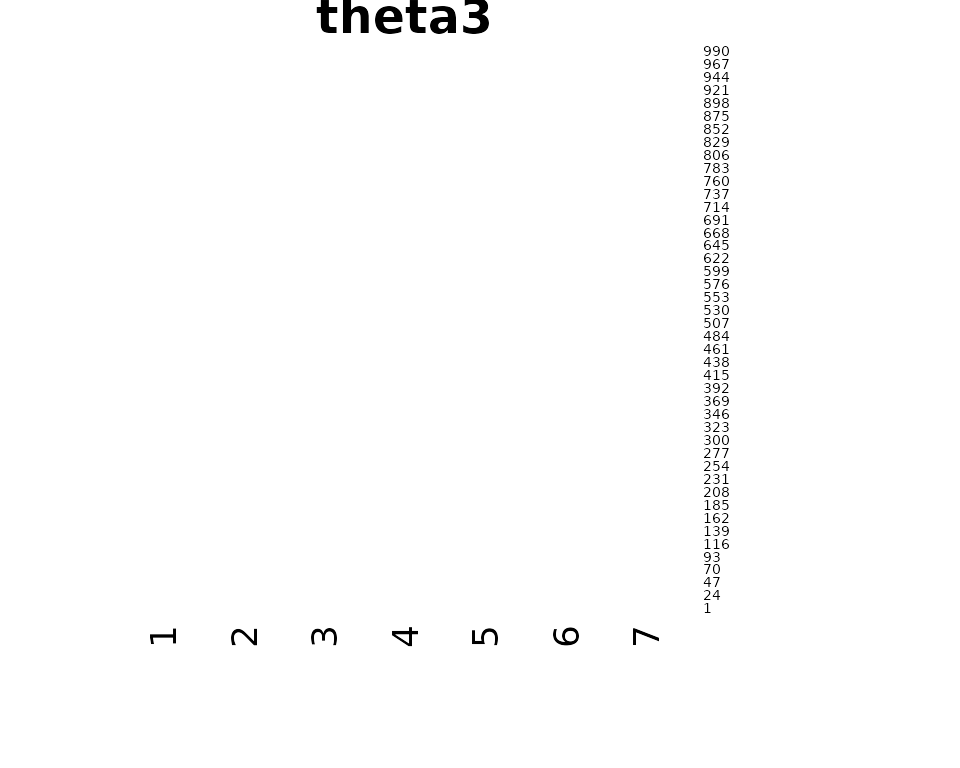
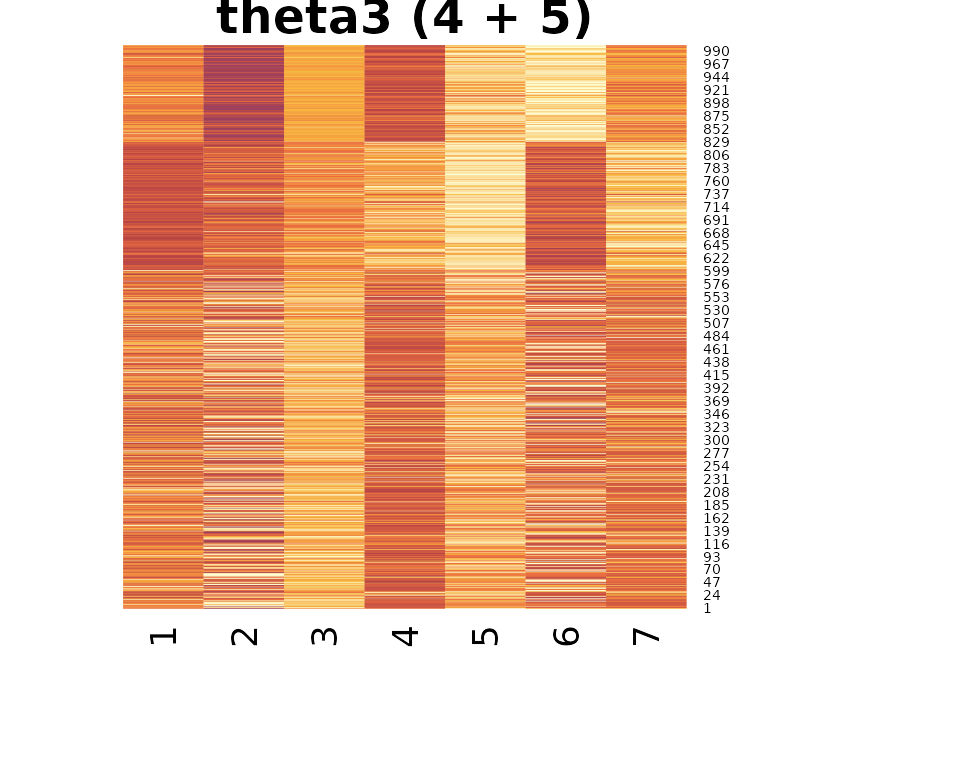
minor update

diff --git a/docs/articles/note_multi_nmf.html b/docs/articles/note_multi_nmf.html
@@ -123,7 +123,7 @@
 </h3>
 <div class="sourceCode" id="cb2"><pre class="downlit sourceCode r">
 <code class="sourceCode R"><span><span class="va">u0</span> <span class="op">&lt;-</span> <span class="fu"><a href="https://rdrr.io/r/base/cbind.html" class="external-link">cbind</a></span><span class="op">(</span><span class="fu"><a href="https://rdrr.io/r/base/Extremes.html" class="external-link">pmax</a></span><span class="op">(</span><span class="va">uu</span>, <span class="fl">0</span><span class="op">)</span>, <span class="op">-</span><span class="fu"><a href="https://rdrr.io/r/base/Extremes.html" class="external-link">pmin</a></span><span class="op">(</span><span class="va">uu</span>, <span class="fl">0</span><span class="op">)</span><span class="op">)</span></span>
-<span><span class="va">.out0</span> <span class="op">&lt;-</span> <span class="fu"><a href="../reference/asap_fit_nmf.html">asap_fit_nmf</a></span><span class="op">(</span><span class="fu"><a href="https://rdrr.io/r/base/cbind.html" class="external-link">cbind</a></span><span class="op">(</span><span class="va">y1</span>, <span class="va">y2</span>, <span class="va">y3</span>, <span class="va">u0</span><span class="op">)</span>, maxK<span class="op">=</span><span class="fl">7</span><span class="op">)</span></span></code></pre></div>
+<span><span class="va">.out0</span> <span class="op">&lt;-</span> <span class="fu"><a href="../reference/asap_fit_nmf.html">asap_fit_nmf</a></span><span class="op">(</span><span class="fu"><a href="https://rdrr.io/r/base/cbind.html" class="external-link">cbind</a></span><span class="op">(</span><span class="va">y1</span>, <span class="va">y2</span>, <span class="va">y3</span>, <span class="va">u0</span><span class="op">)</span> <span class="op">*</span> <span class="fl">10</span>, maxK<span class="op">=</span><span class="fl">7</span><span class="op">)</span></span></code></pre></div>
 <div class="sourceCode" id="cb3"><pre class="downlit sourceCode r">
 <code class="sourceCode R"><span><span class="fu"><a href="https://rdrr.io/r/stats/heatmap.html" class="external-link">heatmap</a></span><span class="op">(</span><span class="va">.out0</span><span class="op">$</span><span class="va">model</span><span class="op">$</span><span class="va">log.beta</span><span class="op">[</span><span class="va">gg</span>, <span class="op">]</span>, Rowv<span class="op">=</span><span class="cn">NA</span>, Colv<span class="op">=</span><span class="cn">NA</span>, main <span class="op">=</span> <span class="st">"beta"</span><span class="op">)</span></span></code></pre></div>
 <p><img src="note_multi_nmf_files/figure-html/unnamed-chunk-3-1.png" width="480"></p>
@@ -142,26 +142,18 @@
 </h3>
 <div class="sourceCode" id="cb7"><pre class="downlit sourceCode r">
 <code class="sourceCode R"><span><span class="va">u0</span> <span class="op">&lt;-</span> <span class="fu"><a href="https://rdrr.io/r/base/cbind.html" class="external-link">cbind</a></span><span class="op">(</span><span class="fu"><a href="https://rdrr.io/r/base/Extremes.html" class="external-link">pmax</a></span><span class="op">(</span><span class="va">uu</span>, <span class="fl">0</span><span class="op">)</span>, <span class="op">-</span><span class="fu"><a href="https://rdrr.io/r/base/Extremes.html" class="external-link">pmin</a></span><span class="op">(</span><span class="va">uu</span>, <span class="fl">0</span><span class="op">)</span><span class="op">)</span></span>
-<span><span class="va">.out</span> <span class="op">&lt;-</span>  <span class="fu"><a href="../reference/asap_fit_nmf_shared_dict.html">asap_fit_nmf_shared_dict</a></span><span class="op">(</span><span class="fu"><a href="https://rdrr.io/r/base/list.html" class="external-link">list</a></span><span class="op">(</span><span class="va">y1</span>, <span class="va">y2</span>, <span class="va">y3</span>, <span class="va">u0</span><span class="op">)</span>, maxK<span class="op">=</span><span class="fl">7</span><span class="op">)</span></span></code></pre></div>
+<span><span class="va">.out</span> <span class="op">&lt;-</span>  <span class="fu"><a href="../reference/asap_fit_nmf_shared_dict.html">asap_fit_nmf_shared_dict</a></span><span class="op">(</span><span class="fu"><a href="https://rdrr.io/r/base/list.html" class="external-link">list</a></span><span class="op">(</span><span class="va">y1</span>, <span class="va">y2</span>, <span class="va">y3</span>, <span class="va">u0</span><span class="op">)</span>, a0 <span class="op">=</span> <span class="fl">1e-2</span>, b0 <span class="op">=</span> <span class="fl">1</span>, maxK<span class="op">=</span><span class="fl">7</span><span class="op">)</span></span></code></pre></div>
 <div class="sourceCode" id="cb8"><pre class="downlit sourceCode r">
-<code class="sourceCode R"><span><span class="fu"><a href="https://rdrr.io/r/stats/heatmap.html" class="external-link">heatmap</a></span><span class="op">(</span><span class="va">.out</span><span class="op">$</span><span class="va">log.beta</span><span class="op">[</span><span class="va">gg</span>,<span class="op">]</span>, Rowv<span class="op">=</span><span class="cn">NA</span>, Colv<span class="op">=</span><span class="cn">NA</span>, main <span class="op">=</span> <span class="st">"beta"</span><span class="op">)</span></span></code></pre></div>
-<pre><code><span><span class="co">## Warning in min(x): no non-missing arguments to min; returning Inf</span></span></code></pre>
-<pre><code><span><span class="co">## Warning in max(x): no non-missing arguments to max; returning -Inf</span></span></code></pre>
+<code class="sourceCode R"><span><span class="fu"><a href="https://rdrr.io/r/stats/heatmap.html" class="external-link">heatmap</a></span><span class="op">(</span><span class="va">.out</span><span class="op">$</span><span class="va">beta</span><span class="op">[</span><span class="va">gg</span>,<span class="op">]</span>, Rowv<span class="op">=</span><span class="cn">NA</span>, Colv<span class="op">=</span><span class="cn">NA</span>, main <span class="op">=</span> <span class="st">"beta"</span><span class="op">)</span></span></code></pre></div>
 <p><img src="note_multi_nmf_files/figure-html/unnamed-chunk-8-1.png" width="480"></p>
-<div class="sourceCode" id="cb11"><pre class="downlit sourceCode r">
-<code class="sourceCode R"><span><span class="fu"><a href="https://rdrr.io/r/stats/heatmap.html" class="external-link">heatmap</a></span><span class="op">(</span><span class="va">.out</span><span class="op">$</span><span class="va">log.theta</span><span class="op">[[</span><span class="fl">1</span><span class="op">]</span><span class="op">]</span><span class="op">[</span><span class="va">kk</span>,<span class="op">]</span>, Rowv<span class="op">=</span><span class="cn">NA</span>, Colv<span class="op">=</span><span class="cn">NA</span>, main <span class="op">=</span> <span class="st">"theta1"</span><span class="op">)</span></span></code></pre></div>
-<pre><code><span><span class="co">## Warning in min(x): no non-missing arguments to min; returning Inf</span></span></code></pre>
-<pre><code><span><span class="co">## Warning in max(x): no non-missing arguments to max; returning -Inf</span></span></code></pre>
+<div class="sourceCode" id="cb9"><pre class="downlit sourceCode r">
+<code class="sourceCode R"><span><span class="fu"><a href="https://rdrr.io/r/stats/heatmap.html" class="external-link">heatmap</a></span><span class="op">(</span><span class="va">.out</span><span class="op">$</span><span class="va">log.theta</span><span class="op">[[</span><span class="fl">1</span><span class="op">]</span><span class="op">]</span><span class="op">[</span><span class="va">kk</span>,<span class="op">]</span>, Rowv<span class="op">=</span><span class="cn">NA</span>, Colv<span class="op">=</span><span class="cn">NA</span>, main <span class="op">=</span> <span class="st">"theta1 (1 + 2)"</span><span class="op">)</span></span></code></pre></div>
 <p><img src="note_multi_nmf_files/figure-html/unnamed-chunk-9-1.png" width="480"></p>
-<div class="sourceCode" id="cb14"><pre class="downlit sourceCode r">
-<code class="sourceCode R"><span><span class="fu"><a href="https://rdrr.io/r/stats/heatmap.html" class="external-link">heatmap</a></span><span class="op">(</span><span class="va">.out</span><span class="op">$</span><span class="va">log.theta</span><span class="op">[[</span><span class="fl">2</span><span class="op">]</span><span class="op">]</span><span class="op">[</span><span class="va">kk</span>,<span class="op">]</span>, Rowv<span class="op">=</span><span class="cn">NA</span>, Colv<span class="op">=</span><span class="cn">NA</span>, main <span class="op">=</span> <span class="st">"theta2"</span><span class="op">)</span></span></code></pre></div>
-<pre><code><span><span class="co">## Warning in min(x): no non-missing arguments to min; returning Inf</span></span></code></pre>
-<pre><code><span><span class="co">## Warning in max(x): no non-missing arguments to max; returning -Inf</span></span></code></pre>
+<div class="sourceCode" id="cb10"><pre class="downlit sourceCode r">
+<code class="sourceCode R"><span><span class="fu"><a href="https://rdrr.io/r/stats/heatmap.html" class="external-link">heatmap</a></span><span class="op">(</span><span class="va">.out</span><span class="op">$</span><span class="va">log.theta</span><span class="op">[[</span><span class="fl">2</span><span class="op">]</span><span class="op">]</span><span class="op">[</span><span class="va">kk</span>,<span class="op">]</span>, Rowv<span class="op">=</span><span class="cn">NA</span>, Colv<span class="op">=</span><span class="cn">NA</span>, main <span class="op">=</span> <span class="st">"theta2 (3 + 4)"</span><span class="op">)</span></span></code></pre></div>
 <p><img src="note_multi_nmf_files/figure-html/unnamed-chunk-10-1.png" width="480"></p>
-<div class="sourceCode" id="cb17"><pre class="downlit sourceCode r">
-<code class="sourceCode R"><span><span class="fu"><a href="https://rdrr.io/r/stats/heatmap.html" class="external-link">heatmap</a></span><span class="op">(</span><span class="va">.out</span><span class="op">$</span><span class="va">log.theta</span><span class="op">[[</span><span class="fl">3</span><span class="op">]</span><span class="op">]</span><span class="op">[</span><span class="va">kk</span>,<span class="op">]</span>, Rowv<span class="op">=</span><span class="cn">NA</span>, Colv<span class="op">=</span><span class="cn">NA</span>, main <span class="op">=</span> <span class="st">"theta3"</span><span class="op">)</span></span></code></pre></div>
-<pre><code><span><span class="co">## Warning in min(x): no non-missing arguments to min; returning Inf</span></span></code></pre>
-<pre><code><span><span class="co">## Warning in max(x): no non-missing arguments to max; returning -Inf</span></span></code></pre>
+<div class="sourceCode" id="cb11"><pre class="downlit sourceCode r">
+<code class="sourceCode R"><span><span class="fu"><a href="https://rdrr.io/r/stats/heatmap.html" class="external-link">heatmap</a></span><span class="op">(</span><span class="va">.out</span><span class="op">$</span><span class="va">log.theta</span><span class="op">[[</span><span class="fl">3</span><span class="op">]</span><span class="op">]</span><span class="op">[</span><span class="va">kk</span>,<span class="op">]</span>, Rowv<span class="op">=</span><span class="cn">NA</span>, Colv<span class="op">=</span><span class="cn">NA</span>, main <span class="op">=</span> <span class="st">"theta3 (4 + 5)"</span><span class="op">)</span></span></code></pre></div>
 <p><img src="note_multi_nmf_files/figure-html/unnamed-chunk-11-1.png" width="480"></p>
 </div>
   </div>

diff --git a/docs/reference/mmutil_read_rows_columns.html b/docs/reference/mmutil_read_rows_columns.html
@@ -117,28 +117,28 @@
 <span class="r-out co"><span class="r-pr">#&gt;</span> [1] TRUE</span>
 <span class="r-in"><span><span class="fu"><a href="https://rdrr.io/r/base/print.html" class="external-link">print</a></span><span class="op">(</span><span class="fu"><a href="https://rdrr.io/r/utils/head.html" class="external-link">head</a></span><span class="op">(</span><span class="va">Y</span><span class="op">[</span>, <span class="va">col.pos</span>, drop <span class="op">=</span> <span class="cn">FALSE</span><span class="op">]</span><span class="op">)</span><span class="op">)</span></span></span>
 <span class="r-out co"><span class="r-pr">#&gt;</span>      [,1] [,2] [,3]</span>
-<span class="r-out co"><span class="r-pr">#&gt;</span> [1,]    2    4    4</span>
-<span class="r-out co"><span class="r-pr">#&gt;</span> [2,]    0    0    4</span>
-<span class="r-out co"><span class="r-pr">#&gt;</span> [3,]    0    0    0</span>
-<span class="r-out co"><span class="r-pr">#&gt;</span> [4,]    0    1    8</span>
-<span class="r-out co"><span class="r-pr">#&gt;</span> [5,]    0    0    2</span>
-<span class="r-out co"><span class="r-pr">#&gt;</span> [6,]    0    0    1</span>
+<span class="r-out co"><span class="r-pr">#&gt;</span> [1,]    0    0    0</span>
+<span class="r-out co"><span class="r-pr">#&gt;</span> [2,]    0    0    2</span>
+<span class="r-out co"><span class="r-pr">#&gt;</span> [3,]    1    1    0</span>
+<span class="r-out co"><span class="r-pr">#&gt;</span> [4,]    0    0    0</span>
+<span class="r-out co"><span class="r-pr">#&gt;</span> [5,]    0    0    1</span>
+<span class="r-out co"><span class="r-pr">#&gt;</span> [6,]    0    1    1</span>
 <span class="r-in"><span><span class="fu"><a href="https://rdrr.io/r/base/print.html" class="external-link">print</a></span><span class="op">(</span><span class="fu"><a href="https://rdrr.io/r/utils/head.html" class="external-link">head</a></span><span class="op">(</span><span class="va">yy</span><span class="op">)</span><span class="op">)</span></span></span>
 <span class="r-out co"><span class="r-pr">#&gt;</span>      [,1] [,2] [,3]</span>
-<span class="r-out co"><span class="r-pr">#&gt;</span> [1,]    2    4    4</span>
-<span class="r-out co"><span class="r-pr">#&gt;</span> [2,]    0    0    4</span>
-<span class="r-out co"><span class="r-pr">#&gt;</span> [3,]    0    0    0</span>
-<span class="r-out co"><span class="r-pr">#&gt;</span> [4,]    0    1    8</span>
-<span class="r-out co"><span class="r-pr">#&gt;</span> [5,]    0    0    2</span>
-<span class="r-out co"><span class="r-pr">#&gt;</span> [6,]    0    0    1</span>
+<span class="r-out co"><span class="r-pr">#&gt;</span> [1,]    0    0    0</span>
+<span class="r-out co"><span class="r-pr">#&gt;</span> [2,]    0    0    2</span>
+<span class="r-out co"><span class="r-pr">#&gt;</span> [3,]    1    1    0</span>
+<span class="r-out co"><span class="r-pr">#&gt;</span> [4,]    0    0    0</span>
+<span class="r-out co"><span class="r-pr">#&gt;</span> [5,]    0    0    1</span>
+<span class="r-out co"><span class="r-pr">#&gt;</span> [6,]    0    1    1</span>
 <span class="r-in"><span><span class="fu"><a href="https://rdrr.io/r/base/print.html" class="external-link">print</a></span><span class="op">(</span><span class="fu"><a href="https://rdrr.io/r/utils/head.html" class="external-link">tail</a></span><span class="op">(</span><span class="va">yy</span><span class="op">)</span><span class="op">)</span></span></span>
 <span class="r-out co"><span class="r-pr">#&gt;</span>       [,1] [,2] [,3]</span>
-<span class="r-out co"><span class="r-pr">#&gt;</span>  [5,]    0    0    2</span>
-<span class="r-out co"><span class="r-pr">#&gt;</span>  [6,]    0    0    1</span>
-<span class="r-out co"><span class="r-pr">#&gt;</span>  [7,]    0    0    3</span>
-<span class="r-out co"><span class="r-pr">#&gt;</span>  [8,]    1    0   10</span>
-<span class="r-out co"><span class="r-pr">#&gt;</span>  [9,]    0    2    0</span>
-<span class="r-out co"><span class="r-pr">#&gt;</span> [10,]    0    1    0</span>
+<span class="r-out co"><span class="r-pr">#&gt;</span>  [5,]    0    0    1</span>
+<span class="r-out co"><span class="r-pr">#&gt;</span>  [6,]    0    1    1</span>
+<span class="r-out co"><span class="r-pr">#&gt;</span>  [7,]    1    0    0</span>
+<span class="r-out co"><span class="r-pr">#&gt;</span>  [8,]    0    0    1</span>
+<span class="r-out co"><span class="r-pr">#&gt;</span>  [9,]    0    2    1</span>
+<span class="r-out co"><span class="r-pr">#&gt;</span> [10,]    0    0    0</span>
 <span class="r-in"><span><span class="fu"><a href="https://rdrr.io/r/base/unlink.html" class="external-link">unlink</a></span><span class="op">(</span><span class="fu"><a href="https://rdrr.io/r/base/list.files.html" class="external-link">list.files</a></span><span class="op">(</span>pattern <span class="op">=</span> <span class="va">data.hdr</span><span class="op">)</span><span class="op">)</span></span></span>
 <span class="r-in"><span></span></span>
 </code></pre></div>

diff --git a/docs/articles/note_batch_correction.html b/docs/articles/note_batch_correction.html
@@ -366,12 +366,12 @@
 <div class="sourceCode" id="cb18"><pre class="downlit sourceCode r">
 <code class="sourceCode R"><span><span class="fu"><a href="https://rdrr.io/r/base/table.html" class="external-link">table</a></span><span class="op">(</span><span class="va">kk</span>, <span class="fu"><a href="https://rdrr.io/r/base/apply.html" class="external-link">apply</a></span><span class="op">(</span><span class="va">.nmf0</span><span class="op">$</span><span class="va">model</span><span class="op">$</span><span class="va">theta</span>, <span class="fl">1</span>, <span class="va">which.max</span><span class="op">)</span><span class="op">)</span></span></code></pre></div>
 <pre><code><span><span class="co">##    </span></span>
-<span><span class="co">## kk   1  2  3  4  5</span></span>
-<span><span class="co">##   1 47 19 20 39 96</span></span>
-<span><span class="co">##   2 31 98 53  7  3</span></span>
-<span><span class="co">##   3  1 59 24 65 31</span></span>
-<span><span class="co">##   4  3 79  4 84 12</span></span>
-<span><span class="co">##   5  0 83 95  9 38</span></span></code></pre>
+<span><span class="co">## kk    1   2   3   4   5</span></span>
+<span><span class="co">##   1  47  35  18  41  80</span></span>
+<span><span class="co">##   2  30 101  53   8   0</span></span>
+<span><span class="co">##   3   0  74  17  73  16</span></span>
+<span><span class="co">##   4   1  76   5  85  15</span></span>
+<span><span class="co">##   5   0  93  97   7  28</span></span></code></pre>
 <p>With batch correction:</p>
 <div class="sourceCode" id="cb20"><pre class="downlit sourceCode r">
 <code class="sourceCode R"><span><span class="fu"><a href="https://rdrr.io/r/stats/heatmap.html" class="external-link">heatmap</a></span><span class="op">(</span><span class="va">.nmf1</span><span class="op">$</span><span class="va">model</span><span class="op">$</span><span class="va">theta</span><span class="op">[</span><span class="fu"><a href="https://rdrr.io/r/base/order.html" class="external-link">order</a></span><span class="op">(</span><span class="va">kk</span><span class="op">)</span>, <span class="op">]</span>, Rowv<span class="op">=</span><span class="cn">NA</span>, Colv<span class="op">=</span><span class="cn">NA</span><span class="op">)</span></span></code></pre></div>
@@ -380,11 +380,11 @@
 <code class="sourceCode R"><span><span class="fu"><a href="https://rdrr.io/r/base/table.html" class="external-link">table</a></span><span class="op">(</span><span class="va">kk</span>, <span class="fu"><a href="https://rdrr.io/r/base/apply.html" class="external-link">apply</a></span><span class="op">(</span><span class="va">.nmf1</span><span class="op">$</span><span class="va">model</span><span class="op">$</span><span class="va">theta</span>, <span class="fl">1</span>, <span class="va">which.max</span><span class="op">)</span><span class="op">)</span></span></code></pre></div>
 <pre><code><span><span class="co">##    </span></span>
 <span><span class="co">## kk    1   2   3   4   5</span></span>
-<span><span class="co">##   1  17   4  18  19 163</span></span>
-<span><span class="co">##   2 117   6   0  67   2</span></span>
-<span><span class="co">##   3   7  26 118  11  18</span></span>
-<span><span class="co">##   4   5   4  57 112   4</span></span>
-<span><span class="co">##   5   2 207   5   6   5</span></span></code></pre>
+<span><span class="co">##   1  11   4  28   9 169</span></span>
+<span><span class="co">##   2 135   7   0  41   9</span></span>
+<span><span class="co">##   3   6  28  94  11  41</span></span>
+<span><span class="co">##   4   3   1  63 115   0</span></span>
+<span><span class="co">##   5   2 204   9   7   3</span></span></code></pre>
 </div>
   </div>
 

diff --git a/docs/reference/mmutil_read_columns.html b/docs/reference/mmutil_read_columns.html
@@ -102,20 +102,20 @@
 <span class="r-out co"><span class="r-pr">#&gt;</span> [1] TRUE</span>
 <span class="r-in"><span><span class="fu"><a href="https://rdrr.io/r/base/print.html" class="external-link">print</a></span><span class="op">(</span><span class="fu"><a href="https://rdrr.io/r/utils/head.html" class="external-link">head</a></span><span class="op">(</span><span class="va">Y</span><span class="op">[</span>, <span class="va">col.pos</span>, drop <span class="op">=</span> <span class="cn">FALSE</span><span class="op">]</span><span class="op">)</span><span class="op">)</span></span></span>
 <span class="r-out co"><span class="r-pr">#&gt;</span>      [,1] [,2] [,3]</span>
-<span class="r-out co"><span class="r-pr">#&gt;</span> [1,]    5    0    0</span>
-<span class="r-out co"><span class="r-pr">#&gt;</span> [2,]    2    1   11</span>
-<span class="r-out co"><span class="r-pr">#&gt;</span> [3,]    2    0    1</span>
-<span class="r-out co"><span class="r-pr">#&gt;</span> [4,]    0    0    2</span>
-<span class="r-out co"><span class="r-pr">#&gt;</span> [5,]    5    1    3</span>
-<span class="r-out co"><span class="r-pr">#&gt;</span> [6,]    1    0    2</span>
+<span class="r-out co"><span class="r-pr">#&gt;</span> [1,]    2    0    9</span>
+<span class="r-out co"><span class="r-pr">#&gt;</span> [2,]    0    0    5</span>
+<span class="r-out co"><span class="r-pr">#&gt;</span> [3,]    4    0    3</span>
+<span class="r-out co"><span class="r-pr">#&gt;</span> [4,]    0    0    4</span>
+<span class="r-out co"><span class="r-pr">#&gt;</span> [5,]    9    3    0</span>
+<span class="r-out co"><span class="r-pr">#&gt;</span> [6,]    0    0    1</span>
 <span class="r-in"><span><span class="fu"><a href="https://rdrr.io/r/base/print.html" class="external-link">print</a></span><span class="op">(</span><span class="fu"><a href="https://rdrr.io/r/utils/head.html" class="external-link">head</a></span><span class="op">(</span><span class="va">yy</span><span class="op">)</span><span class="op">)</span></span></span>
 <span class="r-out co"><span class="r-pr">#&gt;</span>      [,1] [,2] [,3]</span>
-<span class="r-out co"><span class="r-pr">#&gt;</span> [1,]    5    0    0</span>
-<span class="r-out co"><span class="r-pr">#&gt;</span> [2,]    2    1   11</span>
-<span class="r-out co"><span class="r-pr">#&gt;</span> [3,]    2    0    1</span>
-<span class="r-out co"><span class="r-pr">#&gt;</span> [4,]    0    0    2</span>
-<span class="r-out co"><span class="r-pr">#&gt;</span> [5,]    5    1    3</span>
-<span class="r-out co"><span class="r-pr">#&gt;</span> [6,]    1    0    2</span>
+<span class="r-out co"><span class="r-pr">#&gt;</span> [1,]    2    0    9</span>
+<span class="r-out co"><span class="r-pr">#&gt;</span> [2,]    0    0    5</span>
+<span class="r-out co"><span class="r-pr">#&gt;</span> [3,]    4    0    3</span>
+<span class="r-out co"><span class="r-pr">#&gt;</span> [4,]    0    0    4</span>
+<span class="r-out co"><span class="r-pr">#&gt;</span> [5,]    9    3    0</span>
+<span class="r-out co"><span class="r-pr">#&gt;</span> [6,]    0    0    1</span>
 <span class="r-in"><span><span class="fu"><a href="https://rdrr.io/r/base/unlink.html" class="external-link">unlink</a></span><span class="op">(</span><span class="fu"><a href="https://rdrr.io/r/base/list.files.html" class="external-link">list.files</a></span><span class="op">(</span>pattern <span class="op">=</span> <span class="va">data.hdr</span><span class="op">)</span><span class="op">)</span></span></span>
 <span class="r-in"><span></span></span>
 </code></pre></div>

diff --git a/docs/reference/asap_fit_nmf_shared_dict.html b/docs/reference/asap_fit_nmf_shared_dict.html
@@ -66,7 +66,7 @@
 <span>  max_iter <span class="op">=</span> <span class="fl">100L</span>,</span>
 <span>  burnin <span class="op">=</span> <span class="fl">0L</span>,</span>
 <span>  verbose <span class="op">=</span> <span class="cn">TRUE</span>,</span>
-<span>  a0 <span class="op">=</span> <span class="fl">1e-08</span>,</span>
+<span>  a0 <span class="op">=</span> <span class="fl">1</span>,</span>
 <span>  b0 <span class="op">=</span> <span class="fl">1</span>,</span>
 <span>  do_log1p <span class="op">=</span> <span class="cn">FALSE</span>,</span>
 <span>  rseed <span class="op">=</span> <span class="fl">1337L</span>,</span>
@@ -95,7 +95,7 @@
 
 
 <dt>a0</dt>
-<dd><p>gamma(a0, b0) default: a0 = 1e-8</p></dd>
+<dd><p>gamma(a0, b0) default: a0 = 1</p></dd>
 
 
 <dt>b0</dt>

diff --git a/src/rcpp_asap_nmf_shared_dict.cc b/src/rcpp_asap_nmf_shared_dict.cc
@@ -12,7 +12,7 @@
 //' @param min_iter min number of optimization steps
 //' @param burnin number of initiation steps (default: 50)
 //' @param verbose verbosity
-//' @param a0 gamma(a0, b0) default: a0 = 1e-8
+//' @param a0 gamma(a0, b0) default: a0 = 1
 //' @param b0 gamma(a0, b0) default: b0 = 1
 //' @param do_scale scale each column by standard deviation (default: TRUE)
 //' @param do_log1p do log(1+y) transformation
@@ -39,7 +39,7 @@ asap_fit_nmf_shared_dict(const Rcpp::List &y_dn_vec,
                          const std::size_t max_iter = 100,
                          const std::size_t burnin = 0,
                          const bool verbose = true,
-                         const double a0 = 1e-8,
+                         const double a0 = 1,
                          const double b0 = 1,
                          const bool do_log1p = false,
                          const std::size_t rseed = 1337,
@@ -78,7 +78,7 @@ asap_fit_nmf_shared_dict(const Rcpp::List &y_dn_vec,
 
     using model_t = factorization_t<gamma_t, gamma_t, RNG>;
 
-    RNG rng;
+    RNG rng(rseed);
 
     ////////////////////////////////////////////
     // We have:				      //
@@ -109,15 +109,19 @@ asap_fit_nmf_shared_dict(const Rcpp::List &y_dn_vec,
             std::make_shared<model_t>(beta_dk, theta_nk, RSEED(rseed)));
     }
 
+    using norm_dist_t = boost::random::normal_distribution<Scalar>;
+    norm_dist_t norm_dist(0., 1.);
+    auto rnorm = [&rng, &norm_dist]() -> Scalar { return norm_dist(rng); };
+
     for (std::size_t m = 0; m < M; ++m) {
         model_t &model_dn = *model_dn_ptr_vec[m].get();
         gamma_t &theta_nk = *theta_nk_ptr_vec[m].get();
         const Eigen::MatrixXf &y_dn = y_dn_vec.at(m);
-        initialize_stat(model_dn, y_dn, DO_SVD(svd_init));
+        const std::size_t n = y_dn.cols();
+        const Mat temp_nk = Mat::NullaryExpr(n, K, rnorm);
+        exp_op<Mat> exp;
+        theta_nk.update(temp_nk.unaryExpr(exp), Mat::Ones(n, K));
         theta_nk.calibrate();
-        if (m == 0) {
-            beta_dk.calibrate();
-        }
     }
 
     Scalar llik = 0;

diff --git a/README.md b/README.md
@@ -1,2 +1,3 @@
 # ASAP (Annotating Single-cell data matrix by Approximate Pseudo-bulk projection) in R
 
+
